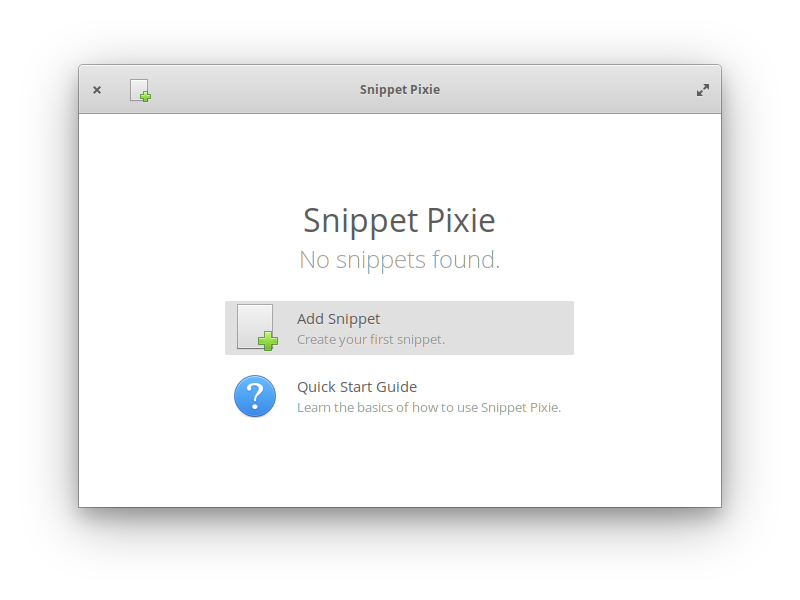
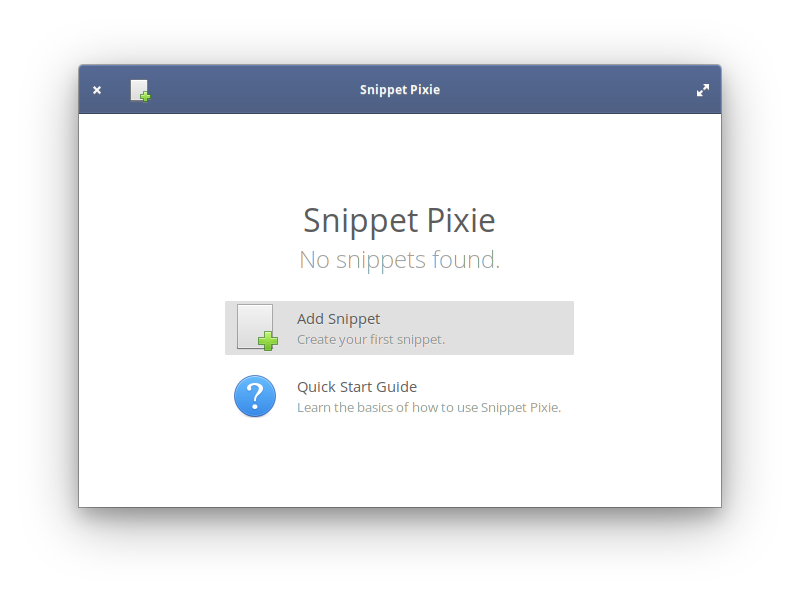
A splash of colour.

Changed region(s): [[0.0938, 0.09, 0.9062, 0.21]]

diff --git a/data/Application.css b/data/Application.css
@@ -16,3 +16,6 @@
 * Free Software Foundation, Inc., 51 Franklin Street, Fifth Floor,
 * Boston, MA 02110-1301 USA
 */
+@define-color colorPrimary #52658d;
+@define-color textColorPrimary #fafafa;
+@define-color textColorPrimaryShadow #7e8087;
